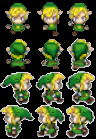
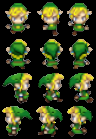
Paint objests in map

diff --git a/pygame-8bit/main.py b/pygame-8bit/main.py
@@ -16,10 +16,12 @@ class Game:
         self.running = True
         self.font = pygame.font.Font('assets/game_font.ttf', 32)
         self.groundsheet = Spritesheet('assets/gound4.png')
-        self.character_spritesheet = Spritesheet('assets/character4.png')
+        self.character_spritesheet = Spritesheet('assets/character2.png')
         self.wallsheet = Spritesheet('assets/spikes.png')
         self.lavasheet = Spritesheet('assets/lava.png')
         self.intro_background = pygame.image.load("assets/intro_background.png")
+        self.diamondsheet = Spritesheet('assets/diamond.png')
+        self.bombsheet = Spritesheet('assets/bomb2.png')
     def createTileMap(self, tilemap):
         build_map(self, tilemap)
 
@@ -28,6 +30,8 @@ class Game:
         self.all_skins = pygame.sprite.LayeredUpdates()
         self.walls = pygame.sprite.LayeredUpdates()
         self.lava = pygame.sprite.LayeredUpdates()
+        self.diamond = pygame.sprite.LayeredUpdates()
+        self.bomb = pygame.sprite.LayeredUpdates()
         self.createTileMap(tilemap)
 
 
@@ -101,8 +105,9 @@ class Game:
 #Creacion del mapa y del bucle del juego
 #TILEMAP = maps.world_1.stage_1
 world_instance = maps.world_1()
-objects, TILEMAP = world_instance.load_map()
+objects,TILEMAP = world_instance.load_map()
 print(TILEMAP)
+#print(objects)
 game = Game()
 game.intro_screen("Start")
 game.new(TILEMAP)

diff --git a/pygame-8bit/maps.py b/pygame-8bit/maps.py
@@ -1,3 +1,4 @@
+import random
 class world_1:
     def load_map(self):
         map_file = 'mapa.txt'
@@ -7,3 +8,30 @@ class world_1:
             map = [linea.strip() for linea in archivo]
 
         return objets, map
+
+
+    """
+            def load_map(self):
+        map_file = 'mapa.txt'
+        with open('map.txt', 'r') as archivo:
+            first_line = archivo.readline().strip().split(', ')
+            objets = {item.split(':')[0]: int(item.split(':')[1]) for item in first_line}
+            mapa = [linea.strip() for linea in archivo]
+
+        # Obtener las coordenadas donde hay puntos
+        point_coords = []
+        for y in range(len(mapa)):
+            for x in range(len(mapa[y])):
+                if mapa[y][x] == '.':
+                    point_coords.append((x, y))
+
+        # Colocar las letras en lugares aleatorios en el mapa
+        for obj, count in objets.items():
+            for _ in range(count):
+                if len(point_coords) == 0:
+                    break
+                coord = random.choice(point_coords)
+                point_coords.remove(coord)
+                mapa[coord[1]] = mapa[coord[1]][:coord[0]] + obj + mapa[coord[1]][coord[0] + 1:]
+
+        return mapa"""

diff --git a/pygame-8bit/sprites.py b/pygame-8bit/sprites.py
@@ -85,3 +85,35 @@ class Button:
                 return True
             return False
         return False
+
+class Diamond(pygame.sprite.Sprite):
+    def __init__(self, game, x, y):
+        self.game = game
+        self._layer = BLOCK_LAYER
+        self.groups = self.game.all_skins, self.game.diamond
+        pygame.sprite.Sprite.__init__(self, self.groups)
+
+        self.x = x * TILESIZE
+        self.y = y * TILESIZE
+        self.width, self.height = TILESIZE, TILESIZE
+
+        self.image = self.game.diamondsheet.sheet
+        self.rect = self.image.get_rect()
+        self.rect.x, self.rect.y = self.x, self.y
+        self.image.set_colorkey('black')
+
+class Bomb(pygame.sprite.Sprite):
+    def __init__(self, game, x, y):
+        self.game = game
+        self._layer = BLOCK_LAYER
+        self.groups = self.game.all_skins, self.game.bomb
+        pygame.sprite.Sprite.__init__(self, self.groups)
+
+        self.x = x * TILESIZE
+        self.y = y * TILESIZE
+        self.width, self.height = TILESIZE, TILESIZE
+
+        self.image = self.game.bombsheet.sheet
+        self.rect = self.image.get_rect()
+        self.rect.x, self.rect.y = self.x, self.y
+        self.image.set_colorkey('black')

diff --git a/pygame-8bit/animation.py b/pygame-8bit/animation.py
@@ -3,16 +3,13 @@ import math, pygame, sprites
 
 def Player_animation(self):
     self.down_animation = [
-        # Lo que va entre parentesiss son las cordenadas para seleccinar cada posicion de personaje en la imagen
-        # self.game.character_spritesheet.get_sprite(210, 0, self.width, self.height), si quiero pintar otro
-        # sprite tengo que ir cambiando los numeros de los pixeles teniendo una imagen de 200 por 200
         self.game.character_spritesheet.get_sprite(0, 0, self.width, self.height),
         self.game.character_spritesheet.get_sprite(32, 0, self.width, self.height),
         self.game.character_spritesheet.get_sprite(64, 0, self.width, self.height)
     ]
     self.up_animation = [
         self.game.character_spritesheet.get_sprite(0, 38, self.width, self.height),
-        self.game.character_spritesheet.get_sprite(38, 38, self.width, self.height),
+        self.game.character_spritesheet.get_sprite(37, 37, self.width, self.height),
         self.game.character_spritesheet.get_sprite(64, 38, self.width, self.height)
     ]
     self.left_animation = [

diff --git a/pygame-8bit/map_build.py b/pygame-8bit/map_build.py
@@ -11,3 +11,9 @@ def build_map(self, tilemap):
                 Wall(self, j, i)
             if column == 'L':
                 Lava(self, j, i)
+            if column == 'D':
+                Diamond(self, j, i)
+            if column == 'B':
+                Bomb(self, i, j)
+
+
